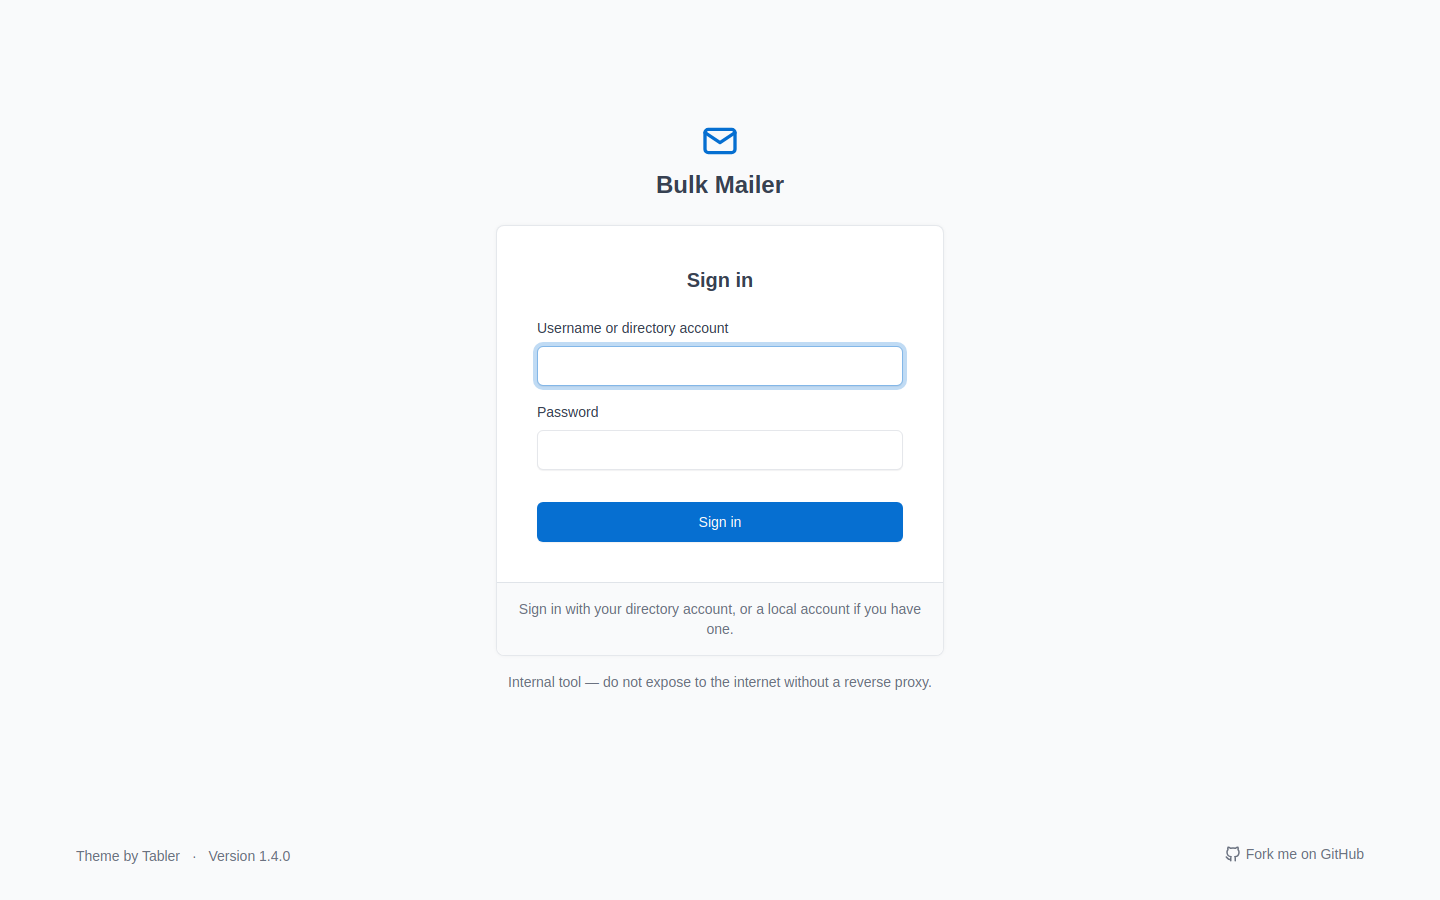
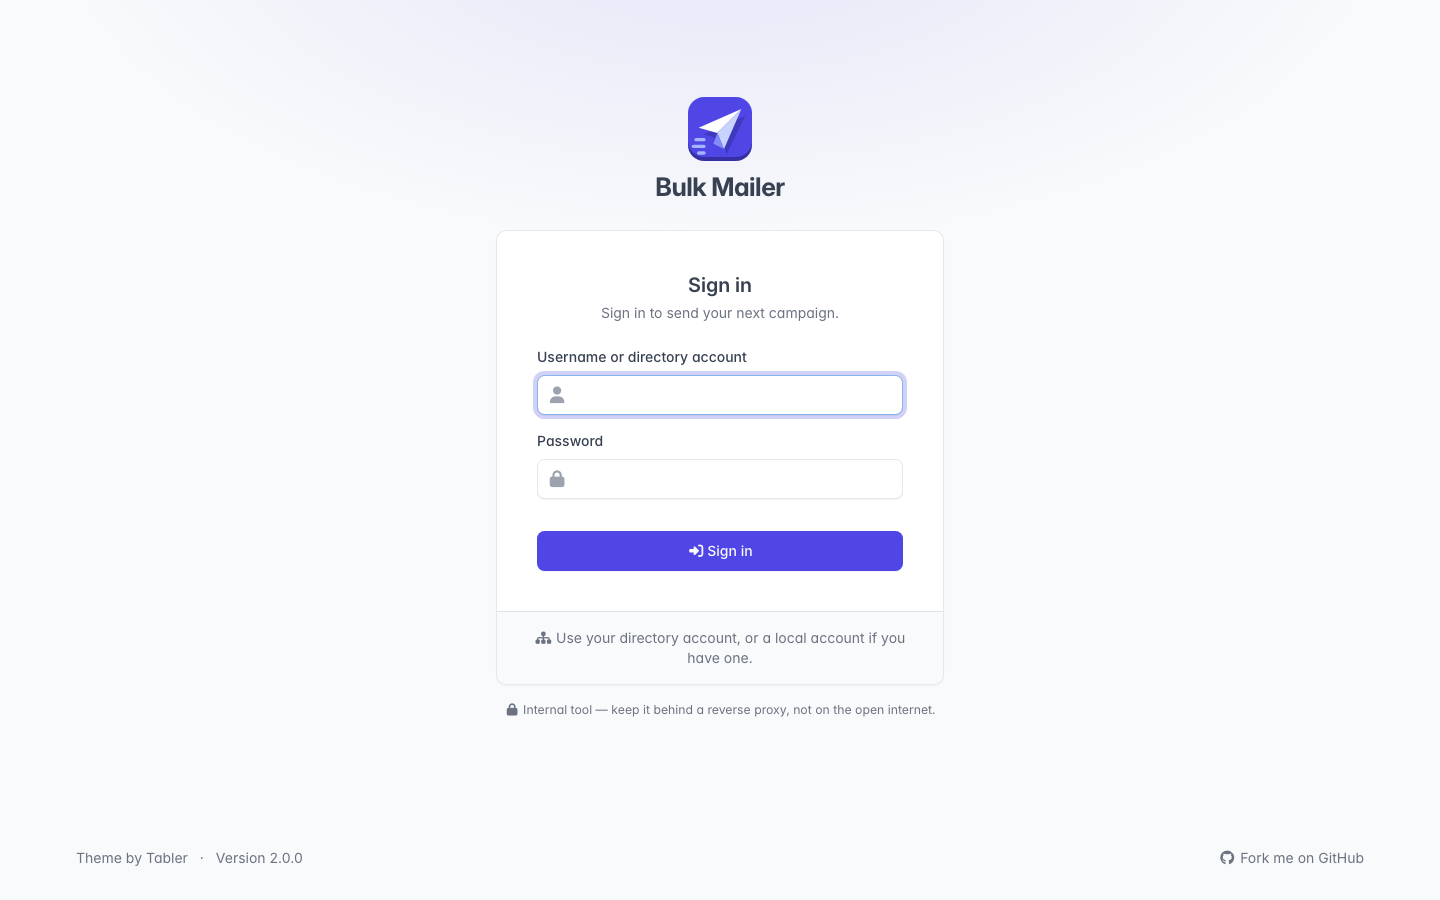
Retake screenshots for 2.0 and fix two layout issues they showed
Screenshots
- All eleven retaken against a freshly seeded throwaway database (all
  names, domains and servers fictional), light theme, 1440px wide, version
  2.0.0 in the footer; same file names, so docs and README links hold.
- docs/screenshots.md describes the new screens: the self-ticking
  checklist, campaign progress, the three-step new-campaign form, help tips
  and the per-user actions menu.
- Renamed buttons updated where docs name them: "Test the connection" and
  "Test sign-in" (guide, advanced config, README).

Fixes found while taking them
- Users page: four action buttons per row overflowed the half-width card
  and were clipped. They are now one actions menu (reset password, admin,
  disable, delete), positioned fixed so the table wrapper cannot clip it.
- Campaign progress bars turned fully red when a completed campaign had
  any failed address (4 of 412). Red is now kept for failed campaigns; the
  Failed column still shows the count.
- Login: the "internal tool" note uses a lock instead of a user-shield.

diff --git a/app/templates/users.html b/app/templates/users.html
@@ -57,26 +57,37 @@
                 {{ item.last_login_at.strftime('%Y-%m-%d %H:%M') if item.last_login_at else 'never' }}
               </td>
               <td class="text-end">
-                <div class="btn-list flex-nowrap justify-content-end">
-                  {% if item.auth_source == 'local' %}
-                    <a class="btn btn-sm" href="#modal-password-{{ item.id }}" data-bs-toggle="modal">
-                      {{ icon('key') }} Password
-                    </a>
-                  {% endif %}
-                  <form method="post" action="/users/{{ item.id }}/toggle-admin">
-                    <button class="btn btn-sm" type="submit">
-                      {{ 'Revoke admin' if item.is_admin else 'Make admin' }}
-                    </button>
-                  </form>
-                  <form method="post" action="/users/{{ item.id }}/toggle-active">
-                    <button class="btn btn-sm" type="submit">
-                      {{ 'Disable' if item.is_active else 'Enable' }}
-                    </button>
-                  </form>
-                  <form method="post" action="/users/{{ item.id }}/delete"
-                        {{ confirm('Delete ' ~ item.username ~ '?', 'They can no longer sign in. Campaigns they created are kept.', 'Delete account') }}>
-                    <button class="btn btn-sm btn-ghost-danger" type="submit" title="Delete account">{{ icon('trash') }}</button>
-                  </form>
+                {# One menu instead of four buttons: the row stays narrow enough for
+                   the half-width card. Fixed positioning keeps the menu from being
+                   clipped by the scrolling table wrapper. #}
+                <div class="dropdown">
+                  <button class="btn btn-sm btn-ghost-secondary btn-icon" type="button"
+                          data-bs-toggle="dropdown" data-bs-popper-config='{"strategy":"fixed"}'
+                          aria-label="Actions for {{ item.username }}" title="Actions">
+                    {{ icon('more') }}
+                  </button>
+                  <div class="dropdown-menu dropdown-menu-end">
+                    {% if item.auth_source == 'local' %}
+                      <a class="dropdown-item" href="#modal-password-{{ item.id }}" data-bs-toggle="modal">
+                        {{ icon('key') }} Reset password
+                      </a>
+                    {% endif %}
+                    <form method="post" action="/users/{{ item.id }}/toggle-admin">
+                      <button class="dropdown-item" type="submit">
+                        {{ icon('shield') }} {{ 'Revoke admin' if item.is_admin else 'Make admin' }}
+                      </button>
+                    </form>
+                    <form method="post" action="/users/{{ item.id }}/toggle-active">
+                      <button class="dropdown-item" type="submit">
+                        {{ icon('ban' if item.is_active else 'play') }} {{ 'Disable' if item.is_active else 'Enable' }}
+                      </button>
+                    </form>
+                    <div class="dropdown-divider"></div>
+                    <form method="post" action="/users/{{ item.id }}/delete"
+                          {{ confirm('Delete ' ~ item.username ~ '?', 'They can no longer sign in. Campaigns they created are kept.', 'Delete account') }}>
+                      <button class="dropdown-item text-danger" type="submit">{{ icon('trash') }} Delete account</button>
+                    </form>
+                  </div>
                 </div>
               </td>
             </tr>

diff --git a/app/templates/campaigns/index.html b/app/templates/campaigns/index.html
@@ -41,7 +41,7 @@
             {% if campaign.dry_run %}<span class="status-pill status-yellow ms-1">{{ icon('flask') }} dry run</span>{% endif %}
             {% if count.total %}
             <div class="progress progress-thin mt-2">
-              <div class="progress-bar {{ 'bg-red' if count.failed else ('bg-green' if campaign.status == 'completed' else '') }}"
+              <div class="progress-bar {{ 'bg-red' if campaign.status == 'failed' else ('bg-green' if campaign.status == 'completed' else '') }}"
                    style="width: {{ (100 * settled / count.total) | round(1) }}%"></div>
             </div>
             {% endif %}

diff --git a/app/templates/dashboard.html b/app/templates/dashboard.html
@@ -69,7 +69,7 @@
                 <div class="fw-semibold text-reset text-truncate">{{ campaign.name }}</div>
                 {% if count.total %}
                 <div class="progress progress-thin mt-2">
-                  <div class="progress-bar {{ 'bg-red' if count.failed else ('bg-green' if campaign.status == 'completed' else '') }}"
+                  <div class="progress-bar {{ 'bg-red' if campaign.status == 'failed' else ('bg-green' if campaign.status == 'completed' else '') }}"
                        style="width: {{ (100 * settled / count.total) | round(1) }}%"></div>
                 </div>
                 {% else %}

diff --git a/app/templates/login.html b/app/templates/login.html
@@ -38,6 +38,6 @@
   {% endif %}
 </div>
 <div class="text-secondary text-center mt-3 small">
-  {{ icon('shield') }} Internal tool &mdash; keep it behind a reverse proxy, not on the open internet.
+  {{ icon('lock') }} Internal tool &mdash; keep it behind a reverse proxy, not on the open internet.
 </div>
 {% endblock %}

diff --git a/app/templates/_icons.html b/app/templates/_icons.html
@@ -44,6 +44,7 @@
   'plus': 'solid plus',
   'eye': 'solid eye',
   'pen': 'solid pen',
+  'more': 'solid ellipsis',
   'trash': 'solid trash-can',
   'refresh': 'solid rotate',
   'flask': 'solid flask',

diff --git a/docs/screenshots.md b/docs/screenshots.md
@@ -29,8 +29,10 @@ reverse proxy.
 
 ![The dashboard, showing counts and recent campaigns](/media/screenshots/02-dashboard.png)
 
-Recipient, list and send counts, recent campaigns with their status, and a
-getting-started checklist that stays until you have actually done the steps.
+Recipient, list and send counts, recent campaigns with their status and
+progress, and a getting-started checklist that ticks itself off as you connect
+a mail server, add recipients, make a list, write a template and send. Once
+everything is done it shrinks to a single "You're all set up" line, as here.
 
 ## Recipients
 
@@ -38,7 +40,7 @@ getting-started checklist that stays until you have actually done the steps.
 
 Search and filter, then act on the results. Bulk actions apply to
 **everything matching the filter**, not only the rows on screen — the
-confirmation tells you the real number before it happens.
+confirmation dialog tells you the real number before it happens.
 
 Suppressed addresses are marked and are skipped by every campaign.
 
@@ -63,24 +65,27 @@ recipient by a sandboxed renderer.
 
 ![The campaign list with per-campaign status](/media/screenshots/06-campaigns.png)
 
-Every campaign with its status: draft, queued, sending, paused, completed,
-cancelled or failed — and who created it.
+Every campaign with its status — draft, queued, sending, paused, completed,
+cancelled or failed — a progress bar, failures at a glance, and who created it.
 
 ## New campaign
 
 ![Composing a campaign, with lists, template and dry run](/media/screenshots/07-campaign-new.png)
 
-Pick the lists, load a template, attach files, preview against a real
-recipient. **Dry run** is right there next to send, which is where it should
-be.
+Three steps: write the message (or start from a template), choose who gets
+it, and check the sender details. Nothing is sent from here. The next page
+tracks the campaign from draft to done, and has preview, attachments, a test
+message to yourself, and **Dry run** right next to **Send now**, which is
+where it should be. Sending asks once more, saying how many people it will
+reach.
 
 ## Settings
 
 ![SMTP settings with a connection test](/media/screenshots/08-settings.png)
 
-The mail server, sender identity and default throttle. Stored in the database
-and editable without a restart. **Test SMTP connection** opens a real
-connection and tells you what happened.
+The mail server, sender identity and default sending speed, each with a
+short (?) tip. Stored in the database and editable without a restart. **Test
+the connection** opens a real connection and tells you what happened.
 
 Stored passwords are encrypted with a key derived from `SECRET_KEY`.
 
@@ -98,9 +103,10 @@ The sync interval for lists that track a directory search lives here too.
 
 ![User administration and directory sign-in settings](/media/screenshots/10-users.png)
 
-Local and directory-backed accounts, admin rights, and the LDAP sign-in
-settings. **Test a sign-in** checks the configuration against the directory
-without touching your own session — worth doing before you sign out.
+Local and directory-backed accounts, with password reset, admin rights,
+disabling and deleting in each row's menu, and the LDAP sign-in settings.
+**Try a sign-in** checks the configuration against the directory without
+touching your own session — worth doing before you sign out.
 
 ## Account
 

diff --git a/README.md b/README.md
@@ -186,7 +186,7 @@ python run.py
 
 ## Typical run
 
-1. **Settings** — enter the SMTP server, press *Test SMTP connection*, then
+1. **Settings** — enter the SMTP server, press *Test the connection*, then
    send yourself a test email.
 2. **LDAP** — create a profile, *Test connection*, then search. Check the
    preview and *Import all N* into a new list. (Or **Recipients → Import**
@@ -320,7 +320,7 @@ entry and checking `member`, `uniqueMember` or `memberUid` — a stock
 OpenLDAP has no `memberOf` unless the overlay is enabled, so both paths
 matter.
 
-Press **Test a sign-in** before signing out — it checks the settings against
+Press **Test sign-in** before signing out — it checks the settings against
 the directory without touching your session. Keep at least one **local**
 account: it still works when the directory is unreachable, and
 `python -m app.cli disable-ldap-login` turns directory sign-in off from the

diff --git a/docs/guide.md b/docs/guide.md
@@ -14,7 +14,7 @@ the app is already running — if not, start at [Setup](/setup).
 overrides the environment defaults without a restart, so you can change it
 while the app runs.
 
-Fill in the host, port and security, then press **Test SMTP connection**. It
+Fill in the host, port and security, then press **Test the connection**. It
 opens a real connection and reports what happened, which is a much shorter
 feedback loop than discovering a wrong port halfway through a campaign.
 

diff --git a/docs/advanced-config.md b/docs/advanced-config.md
@@ -133,7 +133,7 @@ and checking `member`, `uniqueMember` or `memberUid`. A stock OpenLDAP has no
 `memberOf` unless the overlay is enabled, so both paths matter.
 
 ::: warning Two things to do before you sign out
-Press **Test a sign-in**. It checks the settings against the directory
+Press **Test sign-in**. It checks the settings against the directory
 without touching your session.
 
 Keep at least one **local** account. It still works when the directory is
